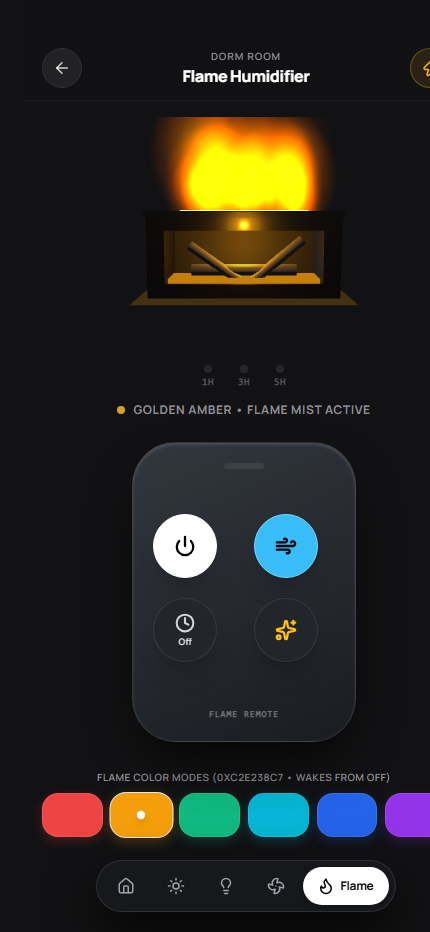
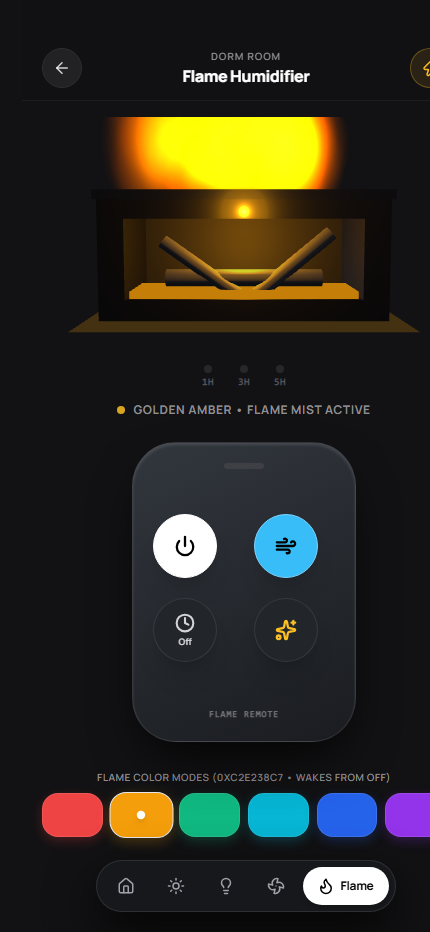
feat: zoomed-in 3D fireplace model and matching realistic 3D room fireplace with burning logs

Changed region(s): [[0.1814, 0.1245, 0.9674, 0.3734]]

diff --git a/src/components/ThreeRoomScene.tsx b/src/components/ThreeRoomScene.tsx
@@ -424,100 +424,105 @@ export const ThreeRoomScene: React.FC<ThreeRoomSceneProps> = ({
     }
 
     // -------------------------------------------------------------
-    // APPLIANCE 4: Grand Architectural Fireplace Hearth (Big size sitting on floor under the TV!)
+    // APPLIANCE 4: Grand Architectural Fireplace Hearth (1:1 with realistic controller!)
     // -------------------------------------------------------------
     const fireplaceGroup = new THREE.Group();
-    // Positioned directly against the back wall (z = -1.58), sitting on the floor under the TV (x = -0.35)
     fireplaceGroup.position.set(-0.35, 0.26, -1.58);
 
-    // 1. Heavy Obsidian / Granite Hearth Mantel Base (Grand Presence matching user photo)
+    // 1. Heavy Obsidian Mantel Surround
     const fpMantelBase = new THREE.Mesh(
       new THREE.BoxGeometry(0.92, 0.52, 0.26),
-      new THREE.MeshStandardMaterial({ color: 0x111215, roughness: 0.4, metalness: 0.15 })
+      new THREE.MeshStandardMaterial({ color: 0x111215, roughness: 0.35, metalness: 0.2 })
     );
     fireplaceGroup.add(fpMantelBase);
 
     // Top Mantel Shelf / Ledge
     const fpMantelLedge = new THREE.Mesh(
       new THREE.BoxGeometry(0.98, 0.04, 0.3),
-      new THREE.MeshStandardMaterial({ color: 0x181a1f, roughness: 0.3, metalness: 0.2 })
+      new THREE.MeshStandardMaterial({ color: 0x181a1f, roughness: 0.25, metalness: 0.3 })
     );
     fpMantelLedge.position.set(0, 0.27, 0.01);
     fireplaceGroup.add(fpMantelLedge);
 
-    // 2. Deep Panoramic Firebox Chamber (Recessed dark cavity)
-    const fpCavity = new THREE.Mesh(
-      new THREE.BoxGeometry(0.74, 0.34, 0.18),
-      new THREE.MeshStandardMaterial({ color: 0x050608, roughness: 0.9 })
-    );
-    fpCavity.position.set(0, -0.02, 0.05);
-    fireplaceGroup.add(fpCavity);
-
-    // 3. Front Panoramic Tinted Glass Pane
-    const fpGlassMat = new THREE.MeshStandardMaterial({
-      color: 0x08090c,
+    // 2. Front Panoramic Tinted Glass Pane (Crystal clear view of burning logs!)
+    const fpGlassMat = new THREE.MeshPhysicalMaterial({
+      color: 0x080a0e,
       roughness: 0.05,
-      metalness: 0.95,
+      metalness: 0.1,
       transparent: true,
-      opacity: 0.82,
+      opacity: 0.22,
+      transmission: 0.88,
+      ior: 1.45,
     });
-    const fpGlass = new THREE.Mesh(new THREE.BoxGeometry(0.72, 0.32, 0.01), fpGlassMat);
+    const fpGlass = new THREE.Mesh(new THREE.BoxGeometry(0.74, 0.34, 0.01), fpGlassMat);
     fpGlass.position.set(0, -0.02, 0.135);
     fireplaceGroup.add(fpGlass);
 
-    // 4. Broad Glowing Molten Coal & Ember Bed across the full hearth
+    // 3. Broad Glowing Molten Coal & Ember Bed across the full hearth
     const emberMat = new THREE.MeshBasicMaterial({
-      color: isFireplaceOn ? 0xef4444 : 0x16171a,
+      color: isFireplaceOn ? new THREE.Color(fireplaceColor) : 0x16171a,
     });
-    const emberBed = new THREE.Mesh(new THREE.BoxGeometry(0.68, 0.02, 0.14), emberMat);
+    const emberBed = new THREE.Mesh(new THREE.BoxGeometry(0.7, 0.025, 0.14), emberMat);
     emberBed.position.set(0, -0.16, 0.06);
     fireplaceGroup.add(emberBed);
 
-    // 5. Stacked 3D Charred Oak Firewood Logs inside the fireplace
-    const logMat = new THREE.MeshStandardMaterial({ color: 0x22242b, roughness: 0.9 });
+    // 4. Stacked 3D Charred Oak Firewood Logs inside the fireplace
+    const logMat = new THREE.MeshStandardMaterial({ color: 0x2c2f37, roughness: 0.85 });
 
     // Center horizontal charred log
-    const fpLog1 = new THREE.Mesh(new THREE.CylinderGeometry(0.024, 0.024, 0.44, 8), logMat);
+    const fpLog1 = new THREE.Mesh(new THREE.CylinderGeometry(0.028, 0.028, 0.48, 12), logMat);
     fpLog1.rotation.z = Math.PI / 2;
-    fpLog1.position.set(0, -0.13, 0.06);
+    fpLog1.position.set(0, -0.11, 0.07);
     fireplaceGroup.add(fpLog1);
 
     // Left crossed branch
-    const fpLog2 = new THREE.Mesh(new THREE.CylinderGeometry(0.018, 0.018, 0.28, 8), logMat);
+    const fpLog2 = new THREE.Mesh(new THREE.CylinderGeometry(0.022, 0.022, 0.32, 12), logMat);
     fpLog2.rotation.z = Math.PI / 3.2;
-    fpLog2.position.set(-0.12, -0.1, 0.07);
+    fpLog2.position.set(-0.13, -0.08, 0.08);
     fireplaceGroup.add(fpLog2);
 
     // Right crossed branch
-    const fpLog3 = new THREE.Mesh(new THREE.CylinderGeometry(0.02, 0.02, 0.28, 8), logMat);
+    const fpLog3 = new THREE.Mesh(new THREE.CylinderGeometry(0.024, 0.024, 0.34, 12), logMat);
     fpLog3.rotation.z = -Math.PI / 3.5;
-    fpLog3.position.set(0.14, -0.09, 0.07);
+    fpLog3.position.set(0.15, -0.07, 0.08);
     fireplaceGroup.add(fpLog3);
 
-    // 6. Top Exhaust Slot on the Mantel Ledge (Glowing slit)
+    // Internal Burning Chamber Flame (Dancing directly within the wood logs!)
+    const insideFlameMat = new THREE.MeshBasicMaterial({
+      color: new THREE.Color(fireplaceColor),
+      transparent: true,
+      opacity: isFireplaceOn ? 0.9 : 0,
+      side: THREE.DoubleSide,
+    });
+    const insideFlameMesh = new THREE.Mesh(new THREE.ConeGeometry(0.14, 0.18, 12), insideFlameMat);
+    insideFlameMesh.position.set(0, -0.05, 0.07);
+    insideFlameMesh.rotation.x = Math.PI;
+    fireplaceGroup.add(insideFlameMesh);
+
+    // 5. Top Exhaust Slot on the Mantel Ledge (Glowing slit)
     const slotMat = new THREE.MeshBasicMaterial({
       color: isFireplaceOn ? 0xfef08a : 0x090a0d,
     });
-    const fpSlot = new THREE.Mesh(new THREE.BoxGeometry(0.56, 0.008, 0.03), slotMat);
+    const fpSlot = new THREE.Mesh(new THREE.BoxGeometry(0.58, 0.008, 0.03), slotMat);
     fpSlot.position.set(0, 0.295, 0.02);
     fireplaceGroup.add(fpSlot);
 
-    // 7. Rising Animated Volumetric Leaping Flame Mist
+    // 6. Rising Animated Volumetric Leaping Flame Mist
     const flameMat = new THREE.MeshBasicMaterial({
       color: new THREE.Color(fireplaceColor),
       transparent: true,
       opacity: isFireplaceOn ? 0.88 : 0.0,
       side: THREE.DoubleSide,
     });
-    const flameMesh = new THREE.Mesh(new THREE.ConeGeometry(0.18, 0.36, 16), flameMat);
-    flameMesh.position.set(0, 0.46, 0.02);
+    const flameMesh = new THREE.Mesh(new THREE.ConeGeometry(0.18, 0.38, 16), flameMat);
+    flameMesh.position.set(0, 0.48, 0.02);
     flameMesh.rotation.x = Math.PI;
     fireplaceGroup.add(flameMesh);
     fireplaceFlameRef.current = flameMesh;
 
     // Rich ambient firelight cast onto the floor and room
-    const fpPointLight = new THREE.PointLight(new THREE.Color(fireplaceColor), isFireplaceOn ? 3.0 : 0, 3.2);
-    fpPointLight.position.set(0, 0.15, 0.25);
+    const fpPointLight = new THREE.PointLight(new THREE.Color(fireplaceColor), isFireplaceOn ? 3.2 : 0, 3.5);
+    fpPointLight.position.set(0, 0.12, 0.25);
     fireplaceGroup.add(fpPointLight);
 
     masterGroup.add(fireplaceGroup);

diff --git a/src/components/FireplaceFlameVisual.tsx b/src/components/FireplaceFlameVisual.tsx
@@ -93,9 +93,9 @@ export const FireplaceFlameVisual: React.FC<FireplaceFlameVisualProps> = ({
     const scene = new THREE.Scene();
     sceneRef.current = scene;
 
-    const camera = new THREE.PerspectiveCamera(36, width / height, 0.1, 100);
-    camera.position.set(0, 0.32, 2.6);
-    camera.lookAt(0, 0.08, 0);
+    const camera = new THREE.PerspectiveCamera(35, width / height, 0.1, 100);
+    camera.position.set(0, 0.18, 1.85); // Zoomed in closer for rich prominent detail!
+    camera.lookAt(0, 0.06, 0);
 
     // 2. High-Performance WebGL Renderer
     const renderer = new THREE.WebGLRenderer({
